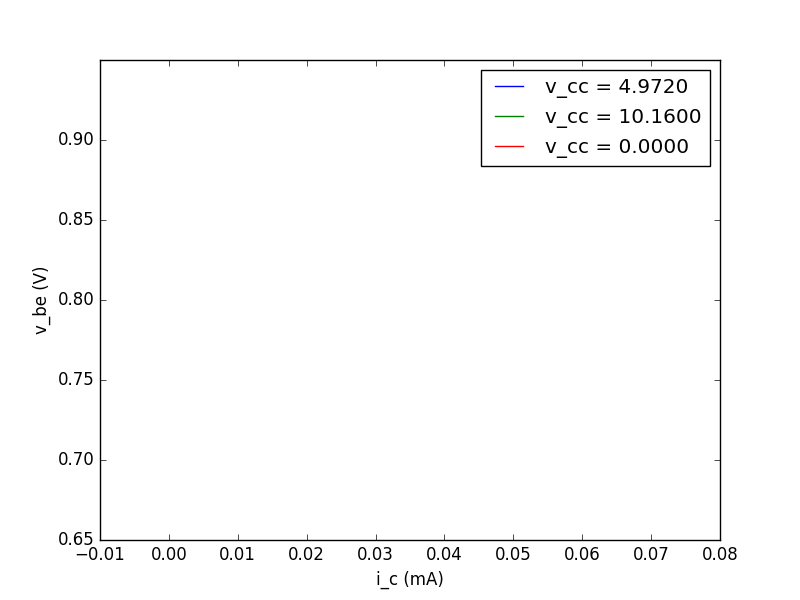
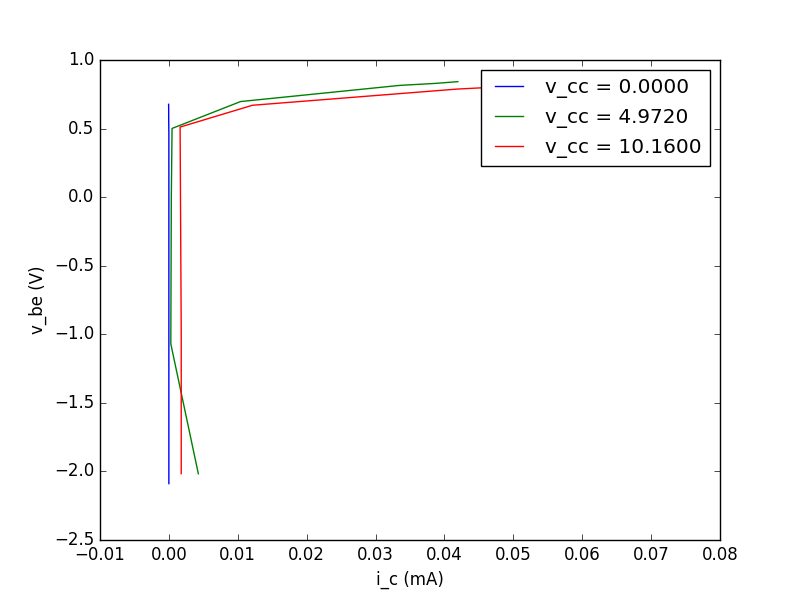
Made plots appear

diff --git a/relatorios/figs/rel5/main.py b/relatorios/figs/rel5/main.py
@@ -9,7 +9,7 @@ def load(where):
     with open(where, 'r') as fp:
         for line in fp:
             if first_line:
-                fields = line.split('\t')
+                fields = list(map(lambda s: s.strip(), line.split('\t')))
                 for field in fields:
                     data[field] = []
                 first_line = False
@@ -20,17 +20,17 @@ def load(where):
 
     return data
 
-def draw(data, what, where):
+def draw(data, what):
     lines = []
     all_v_cc = data['v_cc']
     all_what = data[what]
-    i_c = data['i_c\n']
+    i_c = data['i_c']
     all_v = {}
     all_i = {}
     lines = []
 
     for i, v_cc in enumerate(all_v_cc):
-        if v_cc not in all_v:
+        if str(v_cc) not in all_v:
             all_v[str(v_cc)] = []
             all_i[str(v_cc)] = []
         all_v[str(v_cc)].append(all_what[i])
@@ -46,10 +46,10 @@ def draw(data, what, where):
     plt.legend(handles=lines)
     plt.xlabel('i_c (mA)')
     plt.ylabel('{0} (V)'.format(what))
-    plt.savefig(where)
+    plt.savefig('{0}.png'.format(what))
     plt.clf()
 
 if __name__ == '__main__':
     data = load('figs/rel5/dados.csv')
-    draw(data, 'v_be', 'v_be.png')
-    draw(data, 'v_ce', 'v_ce.png')
+    draw(data, 'v_be')
+    draw(data, 'v_ce')
